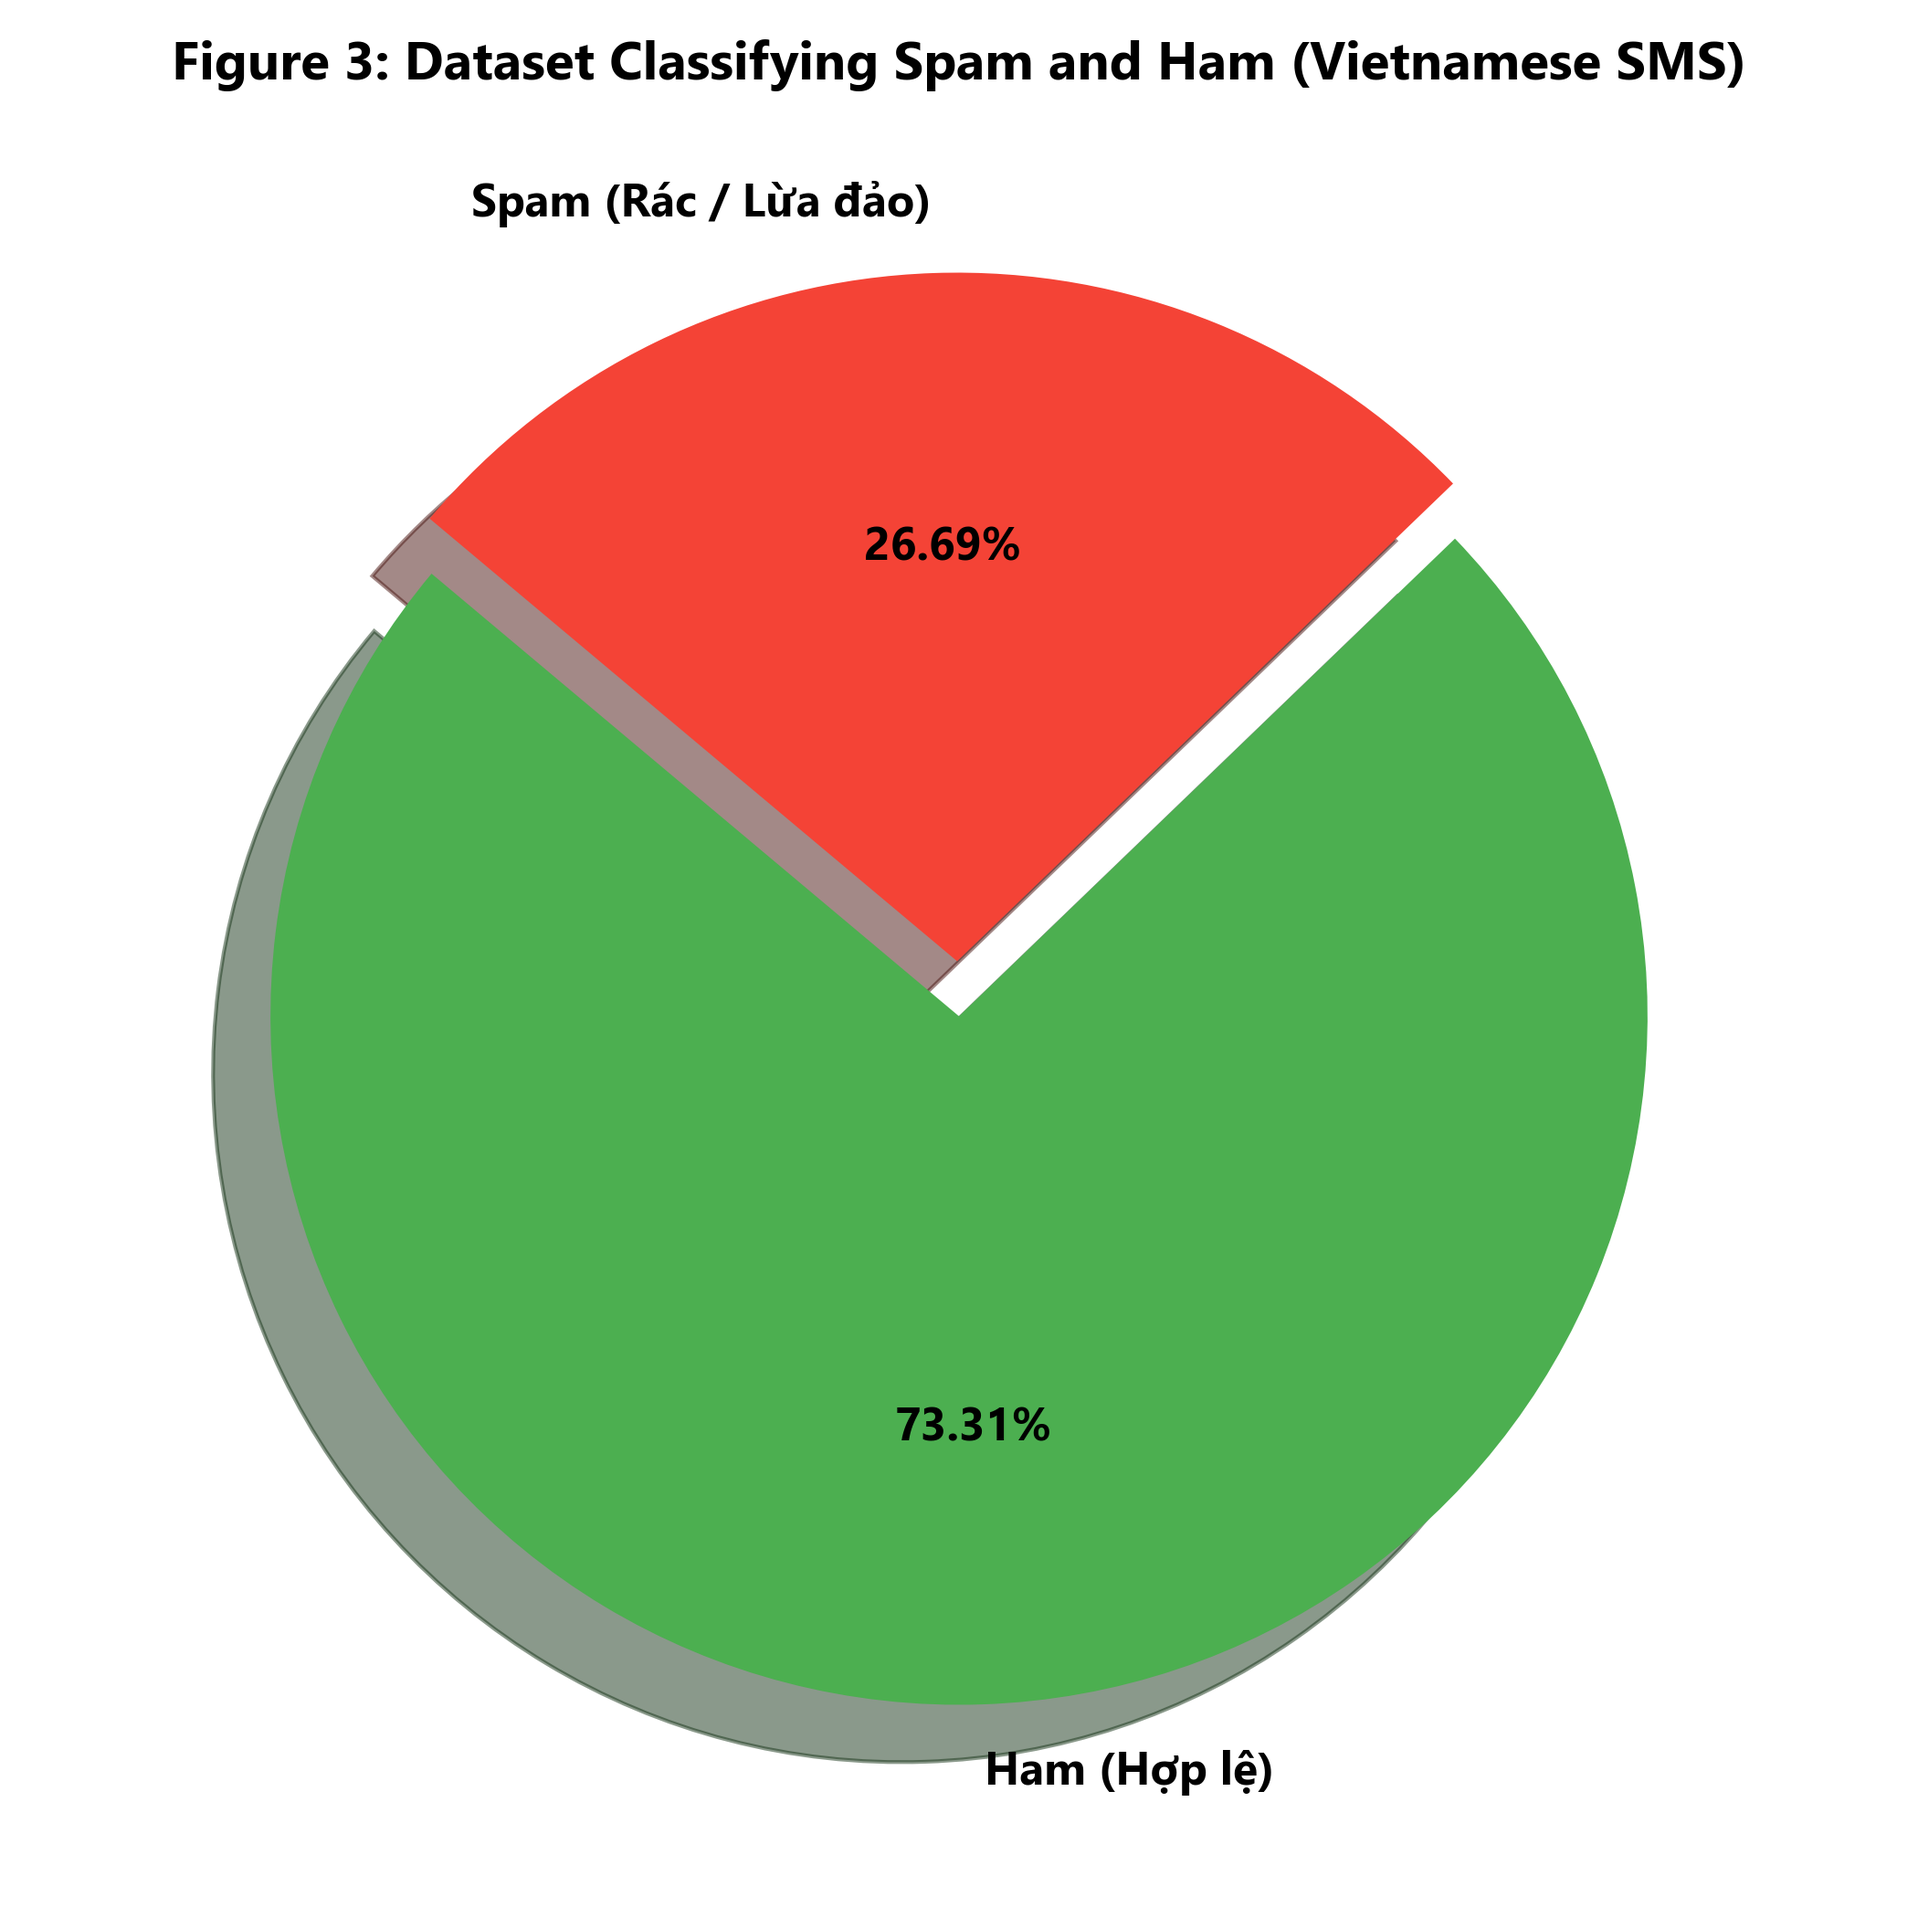
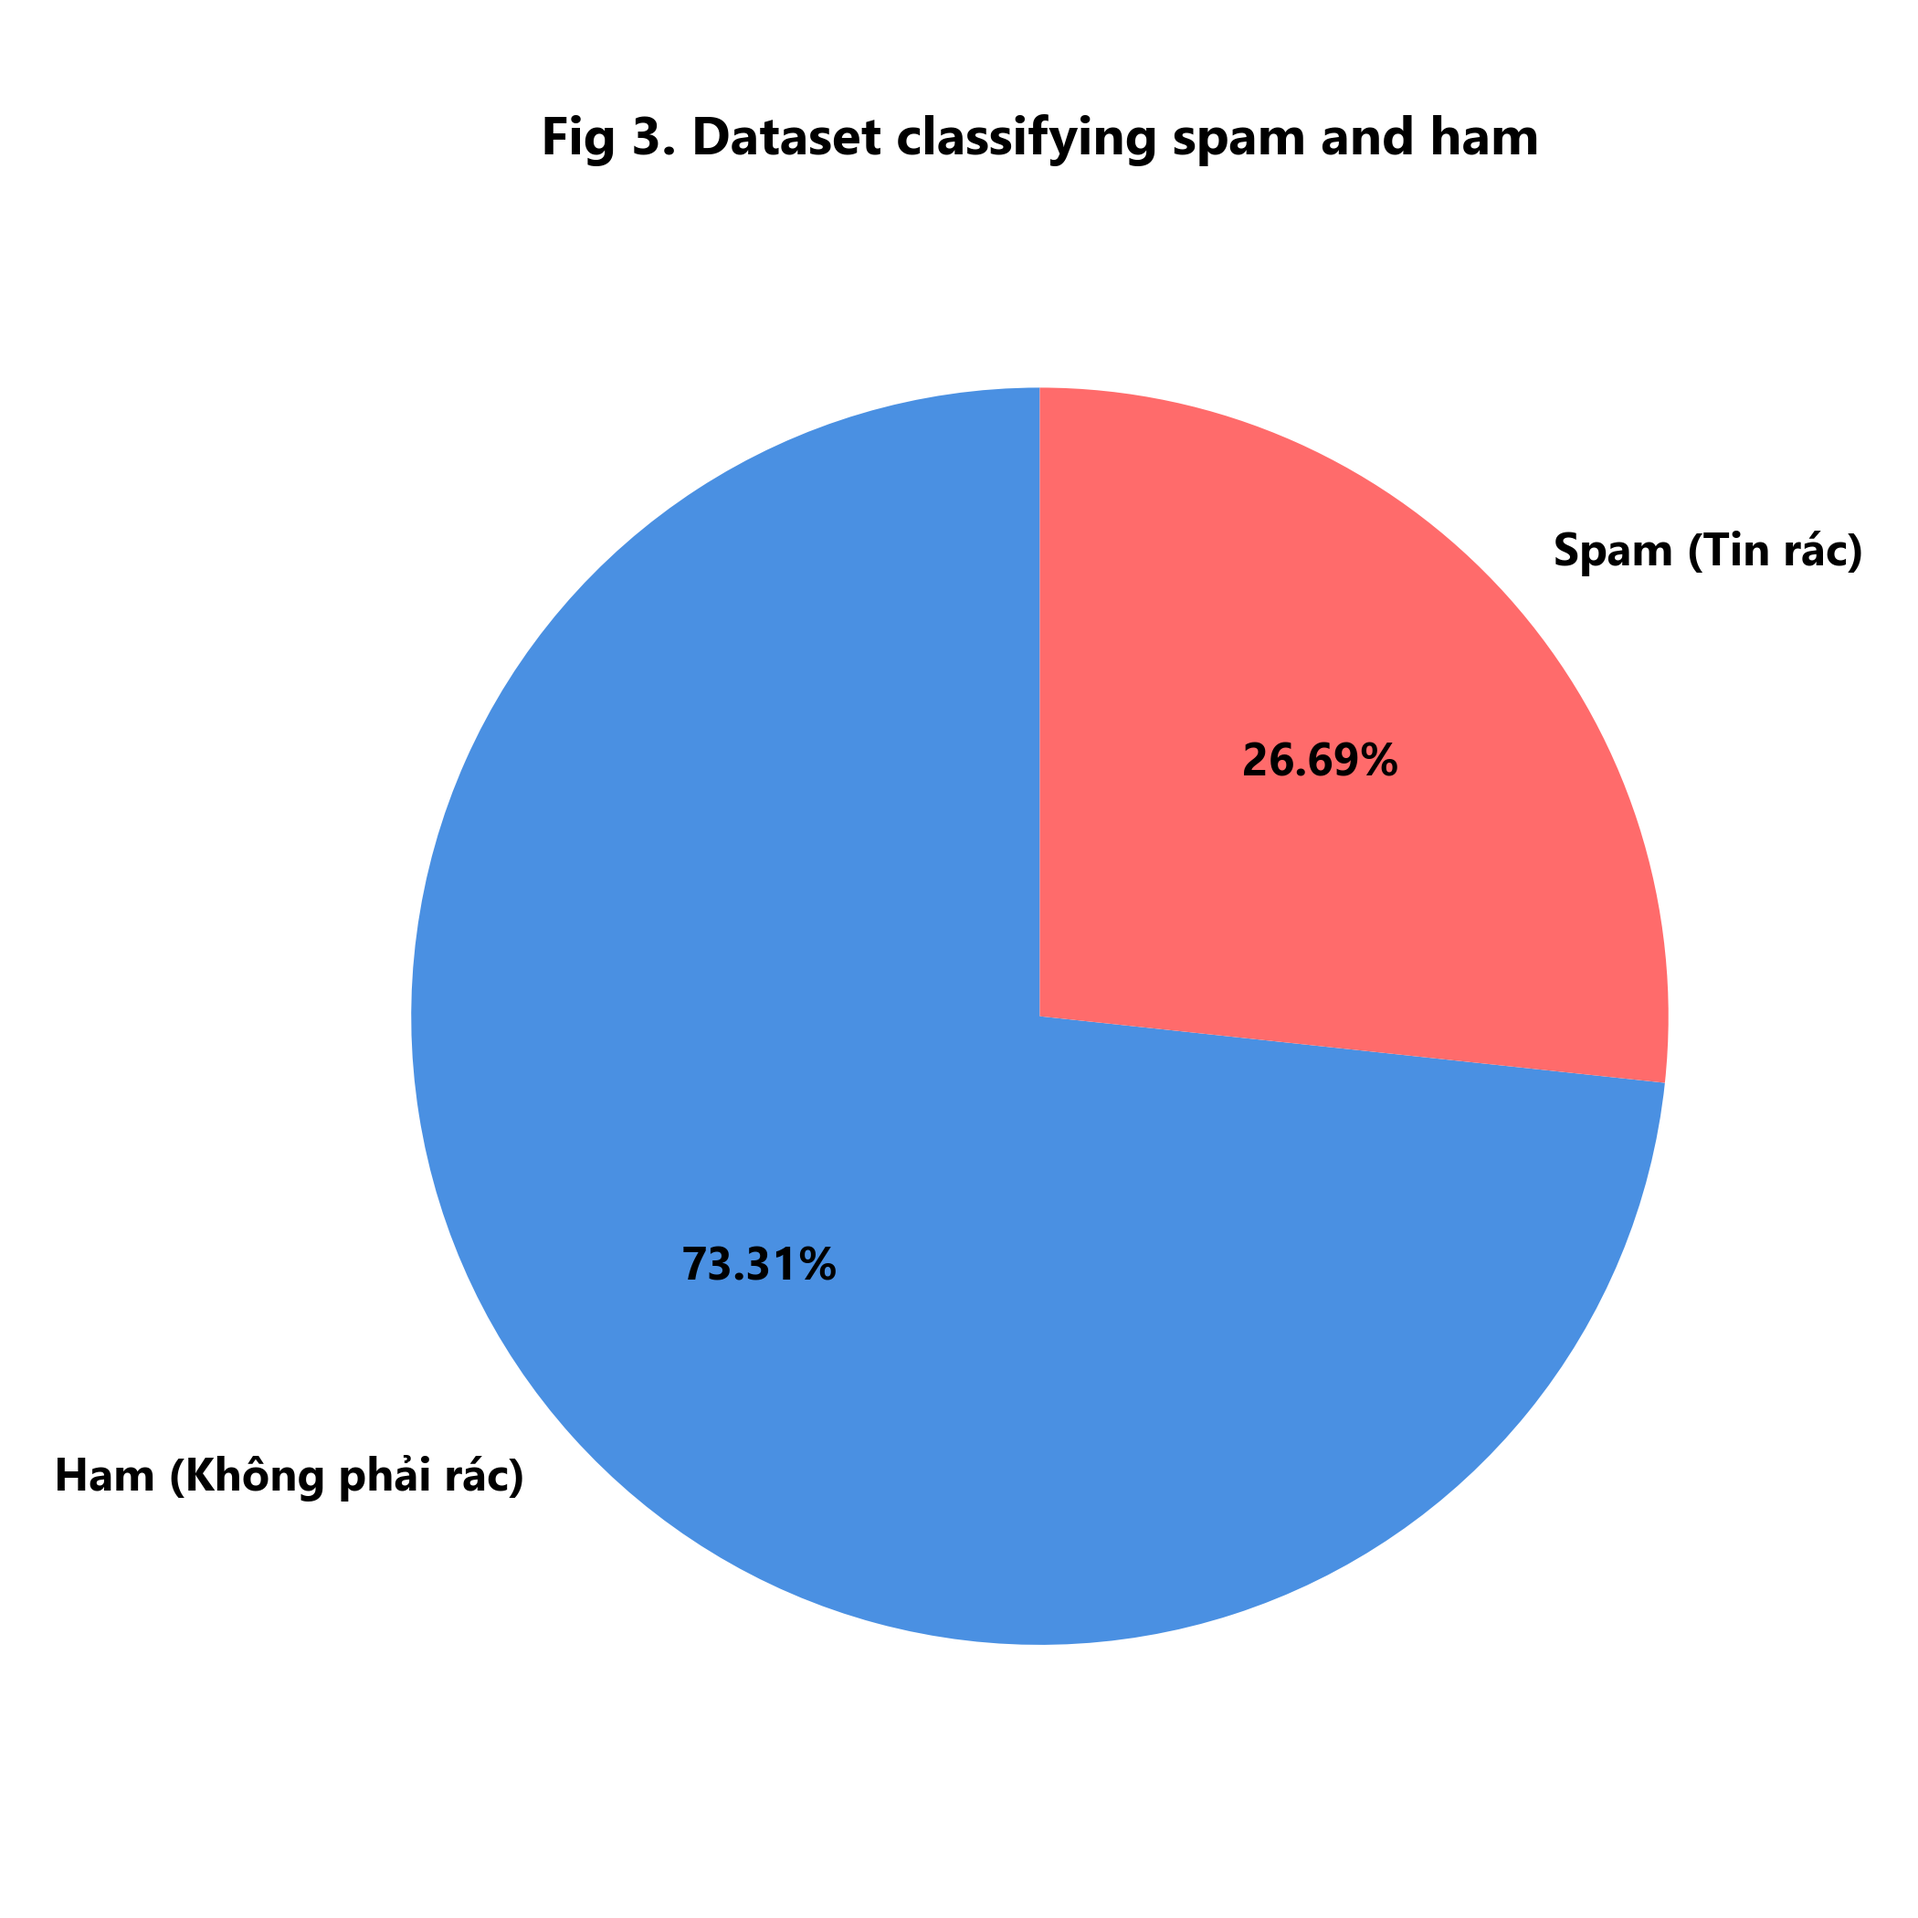
refactor(viz): standardize fig 3 as flat circular pie and fig 7 full vertical scale (0-100%)

diff --git a/src/train.py b/src/train.py
@@ -137,33 +137,33 @@ def train_and_evaluate_all():
     df_results.to_csv(csv_out, index=False, encoding="utf-8-sig")
     print(f" -> Đã lưu bảng kết quả tại: {csv_out}")
 
-    # 4. Vẽ biểu đồ cột Figure 7 theo phong cách bài báo IEEE 2023
-    print("\n[4/4] Đang vẽ Figure 7: Biểu đồ cột nhóm so sánh Accuracy vs Precision...")
+    # 4. Vẽ biểu đồ cột Figure 7 theo đúng phong cách bài báo IEEE 2023 (từ 0 đến 100%)
+    print("\n[4/4] Đang vẽ lại Figure 7: Biểu đồ cột đầy đủ từ 0% đến 100% (giống bài báo gốc)...")
     fig_path = os.path.join(fig_dir, "fig7_model_comparison.png")
 
-    plt.figure(figsize=(14, 7))
+    plt.figure(figsize=(15, 7.5))
     x = np.arange(len(df_results))
-    width = 0.35
+    width = 0.36
 
     bars1 = plt.bar(x - width/2, df_results["Accuracy"], width, label="Accuracy (%)", color="#1f77b4")
     bars2 = plt.bar(x + width/2, df_results["Precision"], width, label="Precision (%)", color="#ff7f0e")
 
-    plt.xlabel("Algorithms", fontsize=12, weight="bold", labelpad=10)
-    plt.ylabel("Score (%)", fontsize=12, weight="bold", labelpad=10)
-    plt.title("Figure 7: Model Comparison Based on Performance (Accuracy vs Precision)", fontsize=14, weight="bold", pad=15)
+    plt.xlabel("Algorithms", fontsize=13, weight="bold", labelpad=12)
+    plt.ylabel("Performance (%)", fontsize=13, weight="bold", labelpad=12)
+    plt.title("Fig 7. Model comparison based on performance", fontsize=15, weight="bold", pad=18)
     plt.xticks(x, df_results["Algorithm"], fontsize=11, weight="bold")
-    plt.ylim(70, 105)
-    plt.legend(fontsize=11, loc="lower right")
-    plt.grid(axis="y", linestyle="--", alpha=0.5)
+    plt.ylim(0, 108)
+    plt.legend(fontsize=12, loc="upper right")
+    plt.grid(axis="y", linestyle="--", alpha=0.6)
 
     # Thêm giá trị số trên đầu mỗi cột
     for bar in bars1:
         yval = bar.get_height()
-        plt.text(bar.get_x() + bar.get_width()/2.0, yval + 0.8, f"{yval:.1f}%", ha="center", va="bottom", fontsize=8.5)
+        plt.text(bar.get_x() + bar.get_width()/2.0, yval + 1.0, f"{yval:.1f}%", ha="center", va="bottom", fontsize=9)
 
     for bar in bars2:
         yval = bar.get_height()
-        plt.text(bar.get_x() + bar.get_width()/2.0, yval + 0.8, f"{yval:.1f}%", ha="center", va="bottom", fontsize=8.5, weight="bold")
+        plt.text(bar.get_x() + bar.get_width()/2.0, yval + 1.0, f"{yval:.1f}%", ha="center", va="bottom", fontsize=9, weight="bold")
 
     plt.tight_layout()
     plt.savefig(fig_path, dpi=300)

diff --git a/src/eda.py b/src/eda.py
@@ -68,26 +68,23 @@ def run_eda_pipeline():
     print("  => Tin nhắn Spam có xu hướng dài hơn đáng kể so với tin nhắn thông thường!")
 
     # -------------------------------------------------------------
-    # FIGURE 3: Biểu đồ tròn tỷ lệ nhãn (Dataset classifying spam and ham)
+    # FIGURE 3: Biểu đồ tròn tỷ lệ nhãn (Fig 3. Dataset classifying spam and ham)
     # -------------------------------------------------------------
-    print("\n[1/4] Đang tạo Figure 3: Biểu đồ tròn tỷ lệ nhãn...")
+    print("\n[1/4] Đang tạo Figure 3: Biểu đồ tròn tỷ lệ nhãn (chuẩn flat, không cắt lát)...")
     plt.figure(figsize=(7, 7))
     label_counts = df["label"].value_counts().sort_index()
-    labels = ["Ham (Hợp lệ)", "Spam (Rác / Lừa đảo)"]
-    colors = ["#4CAF50", "#F44336"]
-    explode = (0, 0.08)
+    labels = ["Ham (Không phải rác)", "Spam (Tin rác)"]
+    colors = ["#4A90E2", "#FF6B6B"]
 
     plt.pie(
         label_counts,
-        explode=explode,
         labels=labels,
         colors=colors,
         autopct="%1.2f%%",
-        startangle=140,
-        textprops={"fontsize": 12, "weight": "bold"},
-        shadow=True
+        startangle=90,
+        textprops={"fontsize": 12, "weight": "bold"}
     )
-    plt.title("Figure 3: Dataset Classifying Spam and Ham (Vietnamese SMS)", fontsize=14, weight="bold", pad=20)
+    plt.title("Fig 3. Dataset classifying spam and ham", fontsize=14, weight="bold", pad=20)
     fig3_path = os.path.join(fig_dir, "fig3_target_distribution_pie.png")
     plt.tight_layout()
     plt.savefig(fig3_path, dpi=300)
